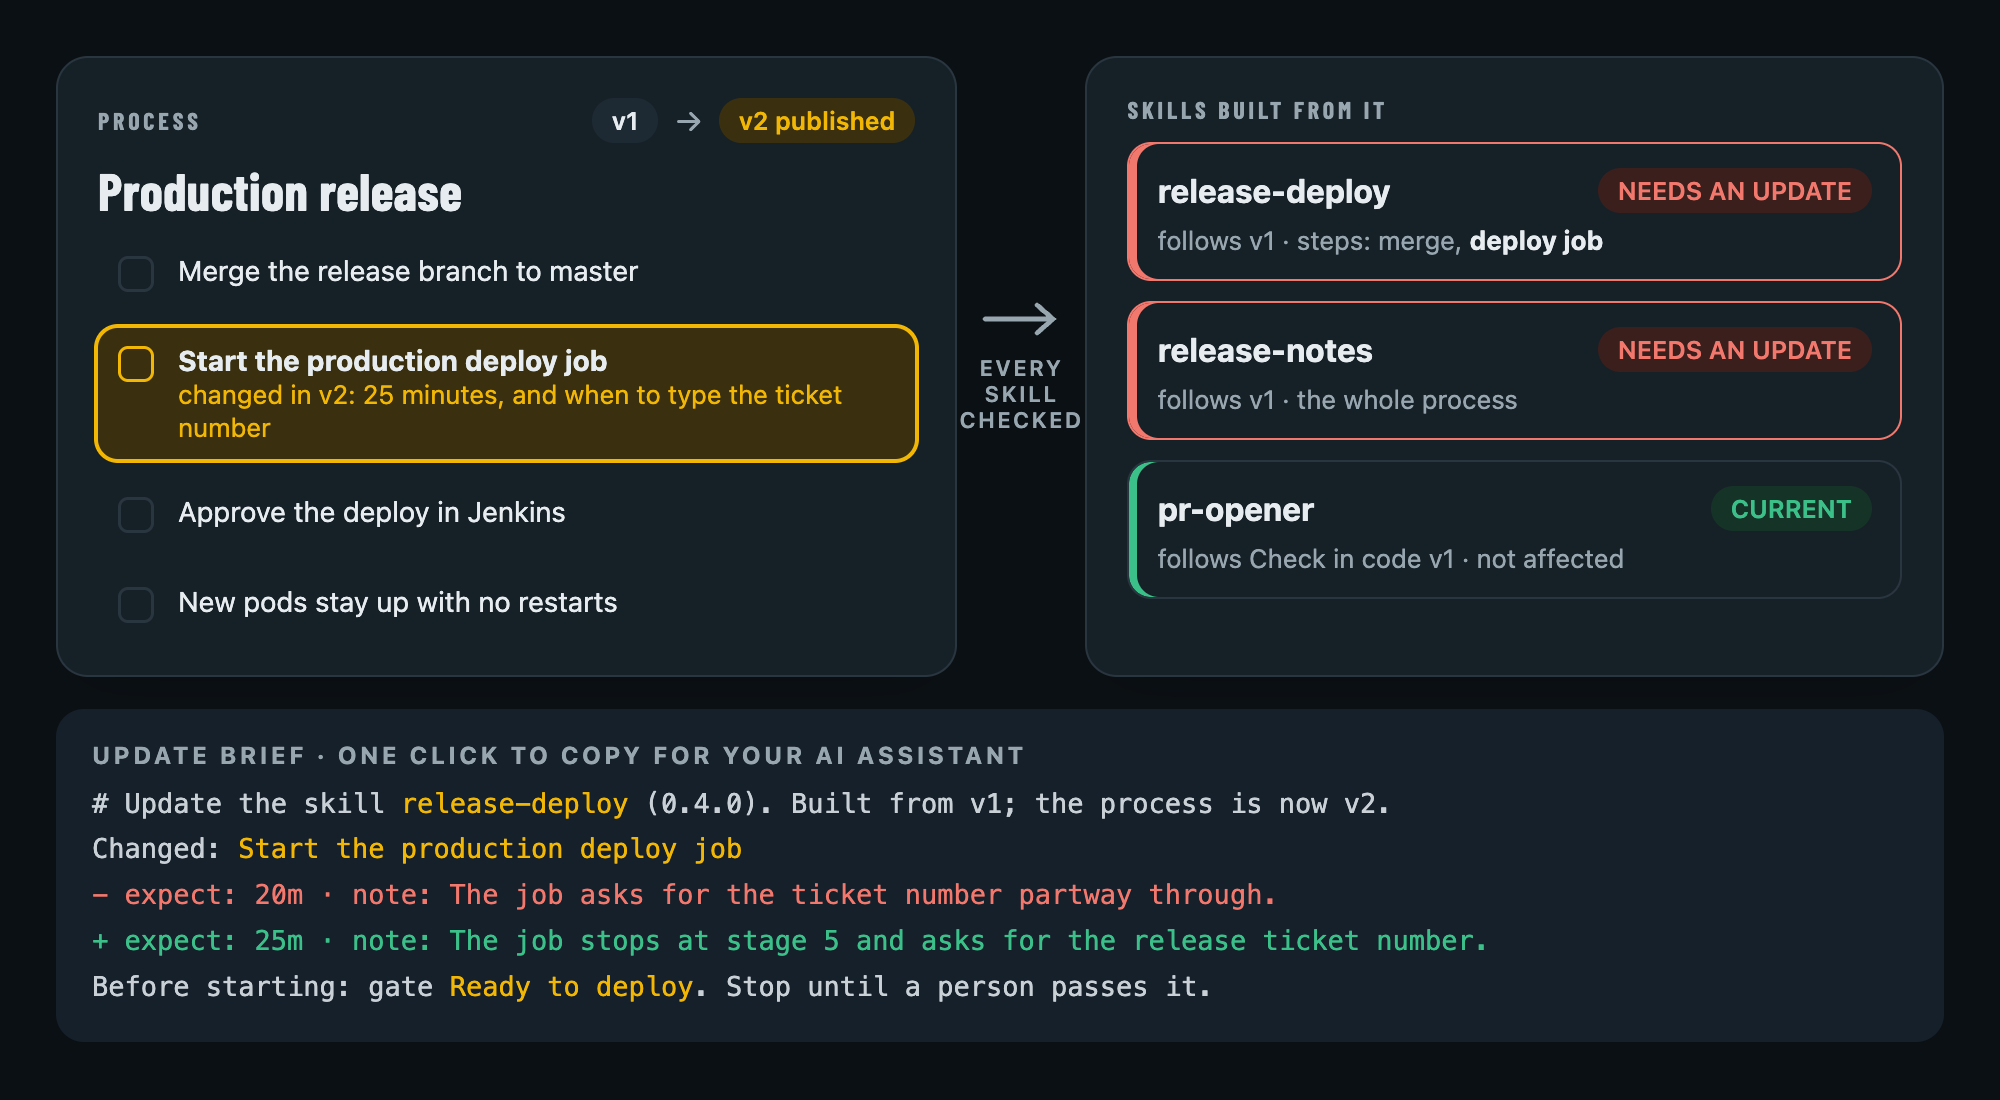
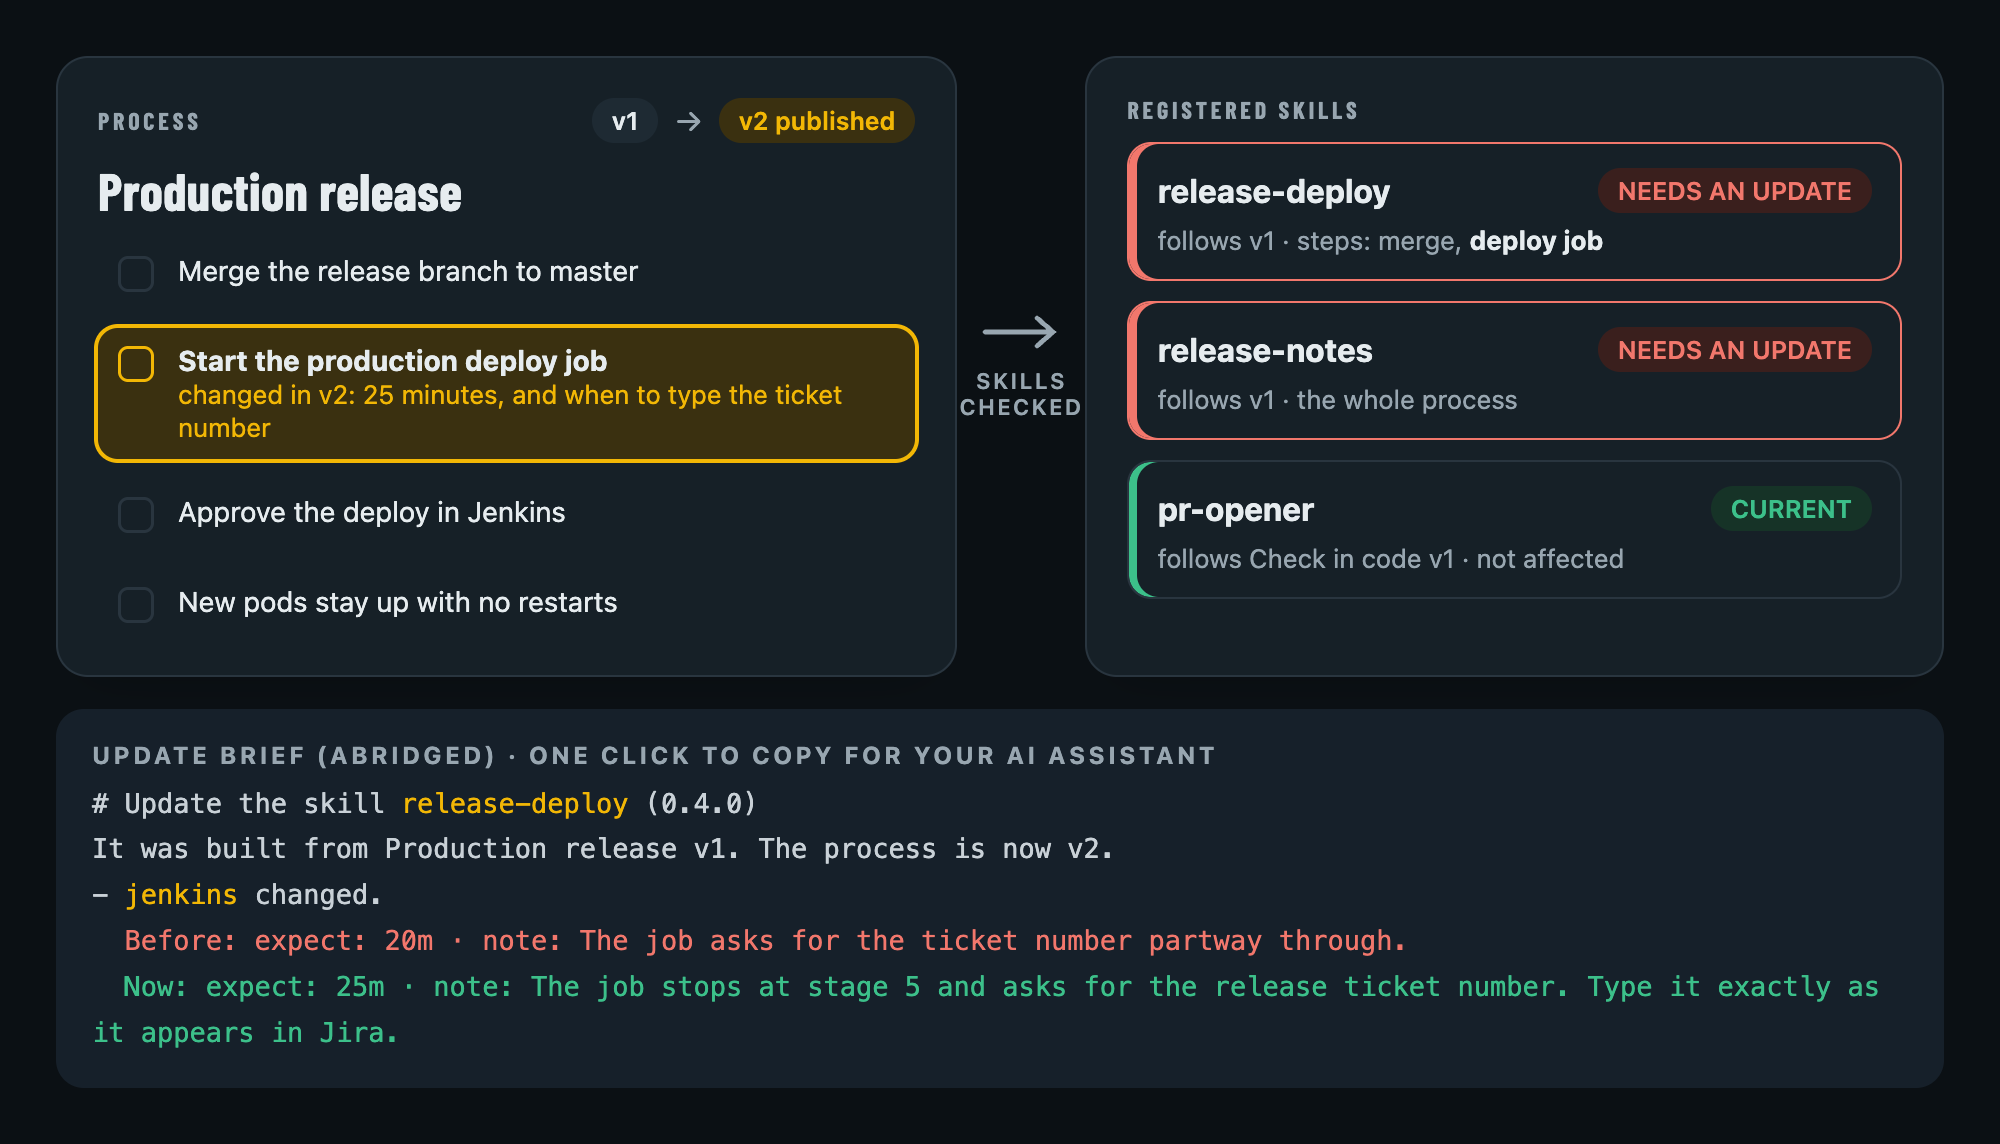
docs: make every traceability claim exactly true; diagram shows the real brief, abridged

diff --git a/README.md b/README.md
@@ -30,13 +30,13 @@ Teams are turning runbooks into AI skills fast. Then the process changes, and no
 
 Flightdeck keeps that link, version by version:
 
-- **Built from proof.** A skill starts from a version the team has actually run clean, and its owner signed off.
-- **Traced to the step.** Every skill names its source, the exact process version it follows, and which steps it covers.
-- **Breakage flagged.** Publish a new version and Flightdeck shows exactly which skills it affects, step by step, and which it doesn't.
-- **Fixes, briefed.** One click copies the exact before and after for your AI assistant to update the skill.
-- **Evidence kept.** Every run is recorded: who did what, what was skipped, and where people went off-script.
+- **Built from proof.** Prove a version with three clean runs and its owner's sign-off, then brief your AI assistant to build the skill.
+- **Traced to the step.** Each registered skill links to an exact process version and the steps it covers (or the whole process), plus where its source lives.
+- **Changes flagged.** Publish a new version and Flightdeck shows which registered skills follow steps that changed, and which are still current.
+- **Fixes, briefed.** One click copies an update brief: the before and after of each changed step, and the process as it is now.
+- **Evidence kept.** Every run keeps who checked each step, what was marked N/A, and where people did it differently.
 
-<p align="center"><a href="https://github.com/troylar/flightdeck/blob/main/docs/images/skills-traced-light.png" title="Open in GitHub's image viewer"><picture><source media="(prefers-color-scheme: dark)" srcset="https://raw.githubusercontent.com/troylar/flightdeck/main/docs/images/skills-traced-dark.png"><img src="https://raw.githubusercontent.com/troylar/flightdeck/main/docs/images/skills-traced-light.png" alt="A process goes from v1 to v2 and one step changes. Flightdeck checks every skill built from it: release-deploy and release-notes need an update, pr-opener is current. The update brief for release-deploy shows the exact before and after for your AI assistant." width="1000"></picture></a></p>
+<p align="center"><a href="https://github.com/troylar/flightdeck/blob/main/docs/images/skills-traced-light.png" title="Open in GitHub's image viewer"><picture><source media="(prefers-color-scheme: dark)" srcset="https://raw.githubusercontent.com/troylar/flightdeck/main/docs/images/skills-traced-dark.png"><img src="https://raw.githubusercontent.com/troylar/flightdeck/main/docs/images/skills-traced-light.png" alt="A process goes from v1 to v2 and one step changes. Flightdeck checks the registered skills: release-deploy and release-notes need an update, pr-opener is current. The update brief for release-deploy shows the exact before and after for your AI assistant." width="1000"></picture></a></p>
 
 <br>
 
